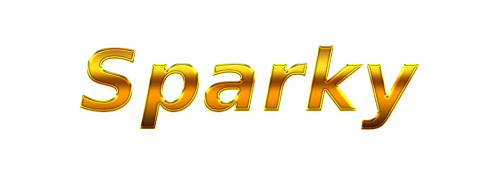
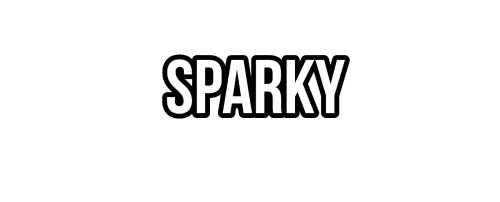
font changed

Changed region(s): [[0.15, 0.2586, 0.84, 0.7471]]

diff --git a/src/Layout/Hero.tsx b/src/Layout/Hero.tsx
@@ -13,10 +13,10 @@ const Hero = () => {
           <img
             src={title}
             alt=""
-            className="hover:scale-110 transition !z-[100]"
+            className="w-[1000px]"
           />
         </div>
-        <div className="md:text-2xl text-lg text-white bg-[#0096cc] border-2 p-2 bottom-10 absolute font-extrabold max-sm:hidden mx-5 text-center shadow-2xl rounded-md" >
+        <div className="md:text-2xl text-lg text-white bg-[#0096cc] border-2 p-2 bottom-10 absolute font-extrabold max-sm:hidden mx-5 Neufreit text-center shadow-2xl rounded-md" >
           <Typewriter
             options={{
               strings: [

diff --git a/src/Layout/About.tsx b/src/Layout/About.tsx
@@ -28,7 +28,7 @@ const About: React.FC = () => {
           <div className="relative lg:w-1/2 sm:w-4/5 w-[90%] flex md:flex-row flex-col items-center justify-center">
             <div className="lg:py-10 lg:px-5 md:py-7 md:px-4 sm:py-5 sm:px-3 py-3 px-2 text-white Neufreit">
               {story.map((item) => (
-                <p key={item} className="md:mb-2 mb-1">
+                <p key={item} className="md:mb-2 mb-1 [text-shadow:_0_3px_0_rgb(0_0_0_/_40%)]">
                   {item}
                 </p>
               ))}

diff --git a/src/stylesheet/hero.css b/src/stylesheet/hero.css
@@ -1,8 +1,6 @@
 .Mark {
     position: absolute;
-    top: 40%;
-    animation: mark 2s linear;
-    animation: scale 2s linear 2s infinite;
+    top: 20%;
 }
 
 @keyframes mark {
@@ -64,4 +62,8 @@
     background-image: radial-gradient(rgba(255, 255, 255, 0.171) 2px, transparent 0);
     background-size: 30px 30px;
     background-position: -5px -5px
+}
+
+.sparky {
+    text-shadow: -10px 0 black, 0 10px black, 10px 0 black, 0 -10px black;
 }

diff --git a/src/App.tsx b/src/App.tsx
@@ -11,7 +11,7 @@ import End from "./Layout/End";
 
 const App: React.FC = () => {
   return(
-    <div className="luckiest-guy-regular">
+    <div className="">
       <Hero />
       <Sparky />
       <About />

diff --git a/src/index.css b/src/index.css
@@ -26,6 +26,10 @@
     font-weight: 400
 }
 
+.Neufreit {
+    font-family: 'Neufreit', Arial, Helvetica, sans-serif;
+}
+
 html {
     scroll-behavior: smooth;
 }
